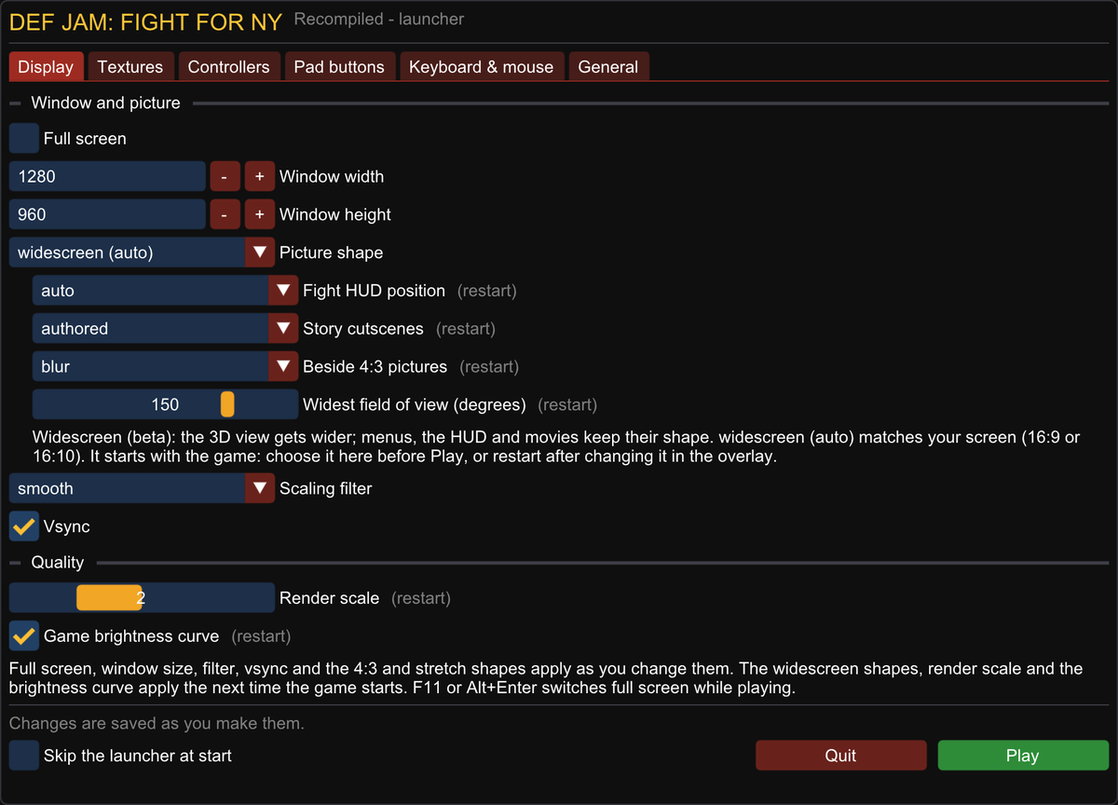
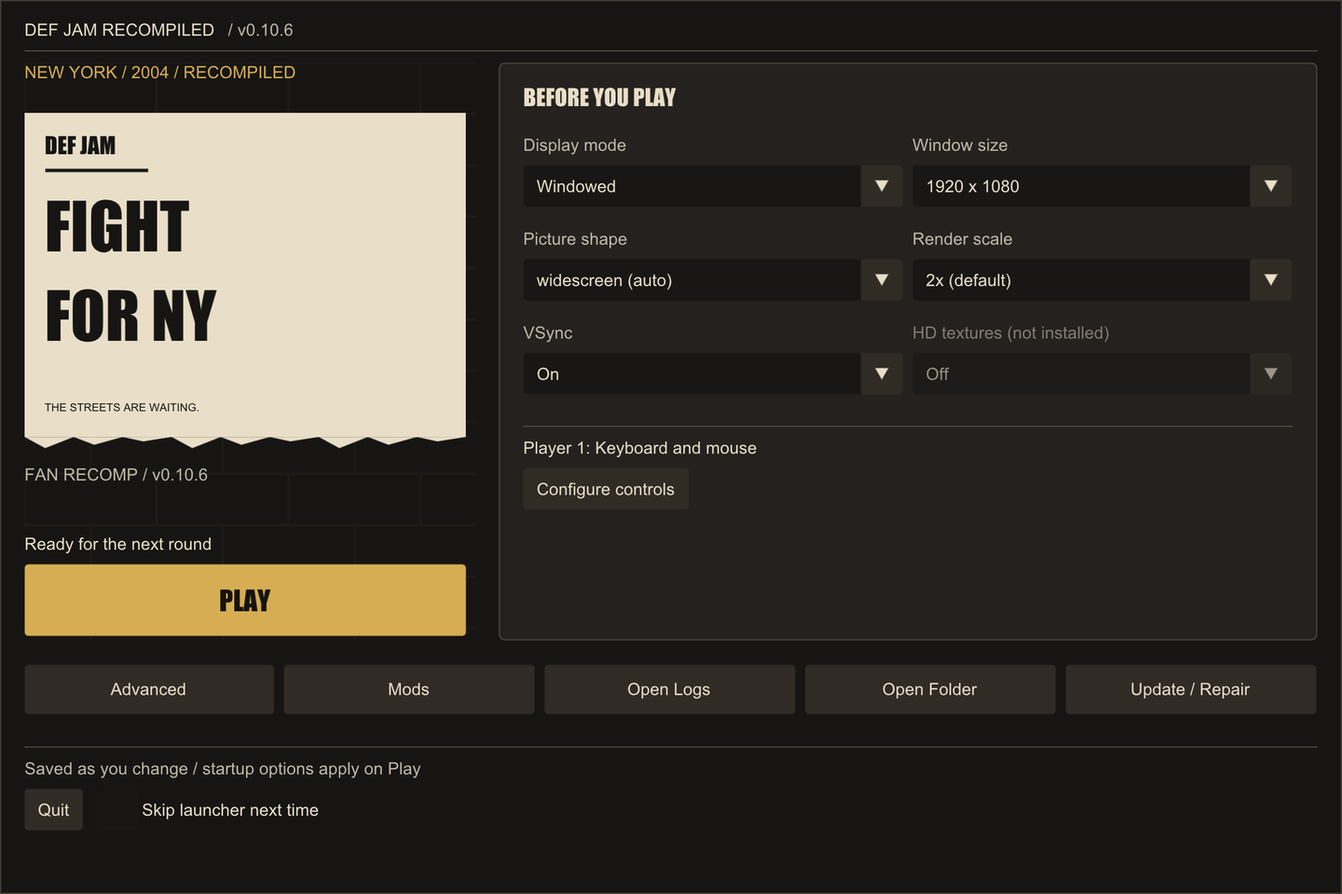
chore: prepare v0.10.6 launcher beta and refresh screenshots

diff --git a/scripts/check-source-tree.py b/scripts/check-source-tree.py
@@ -29,7 +29,9 @@ APPROVED_README_MEDIA = {
[4 lines of base64/hex data omitted]
+    # D144 (2026-10-20): owner requested current Home/Advanced screenshots in README and docs.
[5 lines of base64/hex data omitted]

diff --git a/PROGRESS.md b/PROGRESS.md
@@ -10,7 +10,7 @@
 
 | Area | State | Notes |
 |---|---|---|
-| Launcher redesign (D138-D140, D142-D143) | ✅ owner refinements verified | PR #58, main `af0c03c` integrated; brighter slider tracks, Windowed 1920×1080 / Auto / 2× defaults, bounded render-scale help and usable 250% compact controls. Native fresh/saved settings and Auto boot pass; final quick 5/5 (units 528/32 skip/one slow deselected), picture/overlay 2/2. Saved preferences preserved; physical pad and Windows/Deck GUI acceptance pending. |
+| Launcher redesign (D138-D140, D142-D144) | ⏳ beta release authorized | PR #58, main `af0c03c` integrated; brighter slider tracks, Windowed 1920×1080 / Auto / 2× defaults, bounded render-scale help and usable 250% compact controls. Native fresh/saved settings and Auto boot pass; final quick 5/5 (units 528/32 skip/one slow deselected), picture/overlay 2/2. Saved preferences preserved; owner confirms physical controller works. v0.10.6 prerelease preparation includes refreshed Home/Advanced docs images; Windows/Deck GUI acceptance pending. |
 | Plan reviewed | ✅ | See `docs/01-plan-review.md` |
 | Source dump located | ✅ | Two images of the owner's disc: XISO (3.0 GB) and full-disc ISO (7.8 GB) |
 | XISO extracted | ✅ | `<data>\extracted\` |
@@ -237,6 +237,8 @@
 | D142 | 2026-10-20 | Owner continues launcher work in this chat after positive Mac appearance feedback: brighten only slider tracks; new/reset display defaults are Windowed, 1920×1080, Widescreen (Auto), render scale 2. Explain scale heights and 1080p/1440p choices in the shared help; keep tooltips inside small windows. | Preserve existing saved values. Auto follows the monitor, not the window; integer scales have internal heights 480/960/1440/1920, so 2× is below 1080p and 3× matches 1440p. Pin the harness canvas explicitly to 4:3 for existing goldens/replays. Integrate main `af0c03c` to retain released fixes; D138-D140 from concurrent branches are labelled without renumbering. |
 | D143 | 2026-10-20 | Keep the minimum-size launcher usable at 250% text: shorten only the compact header, reduce compact vertical chrome and match the footer Play font to the control row. Fit explanation text to the viewport when its requested size cannot fit; retain the selected scale for controls. Add semantic `hover:<id>` to the existing SDL test script. | Extra native QA after 7fac946 CI 28/28 found Advanced had no usable body at 640×480/250% (logs/run-20261020-103627.log.err, missing scripted target, normal quit). Resolved by compact layout rather than replacing the user's saved scale. Named hover reveals scrolled controls without changing their values or relying on coordinates. |
 
+| D144 | 2026-10-20 | Owner accepted physical controller and requested beta deployment for Deck. Prepare v0.10.6 as a GitHub prerelease, keep v0.10.5 latest, merge reviewed PR #58 and publish only workflow-verified game-free setup assets. Replace old launcher screenshots throughout README/docs with real current Home/Advanced exports and show Home on the front page; pin those exact UI-only images. | Owner: "Controller works. Deploy this as a beta release and I can install it on Deck"; then requested all older launcher screenshots be replaced and one shown on the front page README. Numeric tag follows release policy; prerelease/latest flags control the beta channel. Existing saved settings stay. No general capture exception or game binary distribution. |
+
 D138–D140 were allocated independently on main and the launcher branch. Their rows retain both records, labelled by branch, so existing decision references keep their meaning; no identifiers were renumbered.
 
 
@@ -327,7 +329,6 @@ defjam-recomp/
 
 > Recent entries only; older entries remain unchanged in the local `docs/worklog/` archive.
 
-- 2026-10-19 15:25 — v0.10.4 published/latest at 15:21 ET (D139): release PR #63 merged `110d50e`, tag `v0.10.4`, Source release run 39309194188 green 30/30. Nine game-free assets downloaded and verified: each `.sha256` and GitHub digest match; provenance names source `110d50e`, toolkit `32aab4d`, production payloads. Released Mac DMG run with a quarantined payload: setup 0.10.4 unpacked 0/4914 files quarantined and the bundled engine ran (exit 2, no dump given). Issue #59 commented with the release and the workaround for older setups.
 - 2026-10-19 15:30 — Owner confirmed the #59 fix with a quarantined test DMG of PR #60 ("This has fixed the issue") and asked for a hotfix. PR #60 merged `1d4e13d` (CI 28/28); #59 closed by it. v0.10.4 prepared on `chore/release-v0.10.4` (D139): CMake 0.10.4, `docs/releases/v0.10.4.md`, known-issues entry now "fixed in v0.10.4" with the `xattr` workaround for older setups. Since v0.10.3 only `setup/macos/Setup/main.swift`, its tests and docs changed (game sources and toolkit `32aab4d` identical), so no game regression was run.
 - 2026-10-19 16:05 — Issue #65 (owner report): with `skip_intro` on, Press Start and menu transition sound effects are silent (v0.10.1 to v0.10.4). Reproduced on the Mac with `RECOMP_APU_PCM` on the `boot` route (skip boot silent at the Audio.Play events; normal boot has the bursts), while the log shows identical `Audio.Play` calls. Temporary `[AUD]` entry logging in the lifted code (not kept, `src/recomp/gen` restored byte for byte) showed a normal boot calls `sub_0003DE20(0)` then, after the movies, `sub_0003DE20(1)`; skip only does the first. D140: `skip_intro.c` calls `sub_0003DE20(1)`. Fixed skip boot has the same bursts as a normal boot; `fight` route 101 present lines, median 120, no crash, save identical; `regress.py --only skipintro` passes 110 s (`logs/regress-20261019-155827.txt`), fails without the fix (`logs/regress-20261019-160026.txt`); native fixture passes. Another `defjam_recomp` from `~/.codex/worktrees/01c5` was running during these runs and one startup crash coincided with it (not reproduced).
 - 2026-10-19 16:20 — Pushed `fix/skip-intro-menu-audio` and opened PR #66 for issue #65 (D140). Prepared v0.10.5 on `chore/release-v0.10.5` (D141): CMake 0.10.5, `docs/releases/v0.10.5.md`; not merged, tagged or published.
@@ -335,51 +336,34 @@ defjam-recomp/
 - 2026-10-20 12:00 — Issue #72 (v0.10.5 installer build on Windows 11, 5080: "has stopped working" right after build, empty Log lines field). Cannot be diagnosed without the log. Reworded the bug report's Log lines field (`.github/ISSUE_TEMPLATE/bug_report.yml`) to say where `logs/run-*.log.err` is for the installer and source builds, and to fall back to a PowerShell launch plus the Event Viewer "Application Error" entry when no log exists. Not committed or pushed; comment on #72 drafted, not posted.
 - 2026-10-20 10:28 — D142 launcher follow-up: main af0c03c integrated (v0.10.5 fixes preserved, concurrent D138-D140 labelled); slider-only contrast, Windowed 1920×1080 / Auto / 2× first-run/reset defaults, render-height help and viewport-bounded tooltip. Native new/saved settings + Auto boot and 200% narrow help verified; all disposable saves restored. Final quick 5/5 logs/regress-20261020-102601.txt (units 528 pass/32 skip/one slow deselected), picture/overlay 2/2 logs/regress-20261020-102746.txt; Swift wrappers type-check; hygiene 430/0. PR #58 remains for playtest, no merge/tag/release.
 - 2026-10-20 10:57 — D143: extra 640×480/250% QA after 7fac946 CI 28/28 could not reach Render Scale (logs/run-20261020-103627.log.err; triage: normal prelaunch quit, body crowded by chrome). Compact header/padding/footer and viewport-fitted help fixed; semantic hover added for stable native checks. 100/200/250% controls/help/Back pass, all disposable save roots restored. Final quick 5/5 logs/regress-20261020-105429.txt (528 units/32 skip/one slow deselected), picture/overlay 2/2 logs/regress-20261020-105615.txt; hygiene 430/0. PR #58; no merge/tag/release.
+- 2026-10-20 11:45 — D144: owner confirms controller works, authorizes Deck beta and README/docs screenshot replacement. Prepared v0.10.6 prerelease (v0.10.5 stays latest), rebuilt version-only source, captured real native Home/Advanced with disposable data/save guard; replaced launcher.png, added launcher-advanced.png and pinned exact UI-only hashes. Front-page README/player guide/gallery refreshed; final units 529 passed/32 skipped/one slow deselected, 62 local docs links valid, source hygiene 432/0. Initial unit run overlapped the final image/hash replacement (one fingerprint failure); rerun after finalization passed. Release/CI/publication pending.
 
 ## 7. Hand-off
 
-Launcher PR #58 remains the active work in this chat: `codex/launcher-redesign`, worktree
-`/Users/vlad/.codex/worktrees/launcher-redesign/DefJamFFNY-recomp`. Main `af0c03c` is integrated,
-retaining v0.10.5 and the setup quarantine/skip-intro audio hotfixes. D138-D140 retain both concurrent
-branch records with labels; owner follow-up is D142; maximum-scale correction is D143. No PR merge, tag or release was requested.
+Vlad confirmed the Mac physical controller works and authorized beta deployment for Deck (D144).
+Prepare **v0.10.6**, a GitHub prerelease, while **v0.10.5 remains stable/latest**.
+PR #58, branch `codex/launcher-redesign`, worktree
+`/Users/vlad/.codex/worktrees/launcher-redesign/DefJamFFNY-recomp`; source ffb428b was CI 28/28.
+Version/docs/media only follow-up: new Home/Advanced captures replace the old launcher image;
+front-page README and player guide show Home. Exact UI-only hashes pinned; no new game artwork.
 
-Vlad accepted the Mac appearance and requested brighter slider tracks, Windowed 1920×1080 with
-Widescreen (Auto) / render scale 2 defaults, and resolution guidance. All are implemented; existing
-saved preferences stay. Auto uses the monitor shape. Scale 2 is 960p internally, scale 3 is 1440p;
-help is shared by Home/Advanced/overlay and fits 640×480 through 250% text; compact header/footer leave controls reachable.
+Preparation checks: version-only build and UI capture/save restoration pass; units 529 passed/32 skipped/one slow deselected, local docs links 62/62, source hygiene 432/0.
+Next: commit/push, mark PR #58 ready, merge after green CI,
+then tag main v0.10.6. Tagged release workflow builds/verifies three game-free setups + checksums +
+provenance (nine assets). Verify the draft, then publish as prerelease with latest=false.
+Do not publish a built game. Verify asset digests and keep a local receipt under
+`logs/launcher-review/beta-20261020/`. Update this handoff when publication completes.
 
-Local entry remains `build/Def Jam Launcher Playtest.app` (forces Home, normal owner data); it uses
-the current rebuilt candidate. Keep the worktree/app; no built game is published. Read
-`docs/agent/launcher-handoff.md`, `docs/research/launcher-ui-implementation-2026-10-19.md` and
-`docs/launcher-and-overlay.md`. Prior setting/pack/path/Setup invariants still apply.
+Mac acceptance: appearance/controller owner-approved; brighter slider tracks, Windowed 1920×1080 /
+Widescreen Auto / 2× defaults and render-scale help implemented. Saved settings preserved.
+Native 100/200/250% controls/help pass; latest quick 5/5 (`logs/regress-20261020-105429.txt`, units
+528 passed/32 skipped/one slow deselected), picture/overlay 2/2 (`logs/regress-20261020-105615.txt`).
+Original full run remains 16/18 (`logs/regress-20261019-123630.txt`): host-stall audio underrun
+(combat retry 27/27), historical replay target 0x001E3C14 (D108) despite exact records.
+No broad game rerun needed for version/docs/media. All captures/tests use disposable runtime-data.
 
-Final follow-up checks: quick 5/5 (`logs/regress-20261020-105429.txt`), units 528 pass/32 skip/one slow deselected,
-picture/overlay 2/2 (`logs/regress-20261020-105615.txt`), both Swift wrappers type-check, hygiene 430/0.
-Native slider captures, fresh settings creation, saved overrides, Auto startup and final Home/Advanced/
-200% narrow help pass; all isolated save roots restored. Receipts/captures stay in
-`logs/launcher-review/{slider,display}-20261020/`. No owner settings/save changes.
-The extra 250% check initially missed Render Scale because the body had no room
-(logs/run-20261020-103627.log.err, normal quit). Fixed compact chrome/footer and fitted help;
-native 100/200/250% checks pass, with named hover targets and saved scale retained.
-The initial full run remains 16/18 (`logs/regress-20261019-123630.txt`): one audio underrun beside
-a host stall, plus historical stream target 0x001E3C14 (D108) despite exact replay records.
-Combat retry was 27/27. No thresholds/diagnostics/goldens were suppressed or updated.
-
-Next: check the current PR head's CI, then owner feedback on physical-pad navigation/remapping,
-actual HD packs/priority, folder/log actions and real Setup selection/prefill. Native Windows/Deck
-GUI acceptance remains pending. The original Mac appearance feedback does not establish those checks.
-Do not rerun broad game suites unless changes or a reported fault justify them. Current release state:
-
-v0.10.5 is the latest release (D141): https://github.com/vyanhursky/DefJamFFNY-recomp/releases/tag/v0.10.5. Tag on release PR #68
-merge `cb10747` (toolkit `32aab4d`); Source release run 39344036207 green 30/30; nine assets present, the three installers'
-SHA-256 files match GitHub's asset digests. It fixes #65 (PR #66): with *Skip startup movies and legal screen* on, Press
-Start and the menu transition sounds were silent in v0.10.1 to v0.10.4; `skip_intro.c` now runs `sub_0003DE20(1)`, the full
-audio init the game makes after the movies. Verified on the Mac only (audio capture, `boot`/`fight` routes, `--only skipintro`
-with a negative control, native fixture). The owner merged the PRs; no ear test of the fix is recorded, and Windows and Linux
-were not listened to.
-
-Open: Windows play-test of the picture options and the skip-on menu sounds (add to the §5 Windows to-do for the week of
-2026-10-25); subtitles (#44, backlog). Earlier items stay: Deck follow-ups (render scale 1 on sc00/sc11/sc07b/sc06, Game Mode
-60 Hz, `perf record` during sc00, F5 fence-hold wait), F2 scene-load freezes, the Windows to-do in §5. No game is running.
-
-Decisions are read by number or keyword: `decision D<n>`, `decisions --grep TEXT`.
+Deck/Windows GUI acceptance and actual pack/Setup utility acceptance remain. On Deck use beta Linux
+setup, existing install/data folders, Clean Update + Bundled. Latest excludes prereleases. Keep local
+`build/Def Jam Launcher Playtest.app` and worktree for owner. Short code map/invariants are in
+`docs/agent/launcher-handoff.md`; evidence in `docs/research/launcher-ui-implementation-2026-10-19.md`.
+Preserve existing Windows/F2/scene-load/audio backlog in §5 and `docs/known-issues.md`.

diff --git a/docs/media/README.md b/docs/media/README.md
@@ -2,7 +2,8 @@
 
 [Back to the project](../../README.md) · [Capture guide and remaining shots](capture-plan.md)
 
-These are real captures of the native Mac port, recorded on October 13, 2026
+These are real captures of the native Mac port. The launcher Home and Advanced
+screens were captured on October 20, 2026; gameplay and the historical overlay were recorded on October 13, 2026
 on an Apple M1 Pro running macOS 26.5.2, using Vulkan/MoltenVK. Gameplay uses
 render scale 2, the game brightness curve and locally generated faithful HD
 packs where labelled. Widescreen beta shipped in
@@ -46,23 +47,30 @@ Both recordings follow the same seeded inputs but are not frame synchronized.
 
 ## Launcher and F1 overlay
 
-![Mac launcher Display page with widescreen auto and render scale 2 selected](launcher.png)
+![New launcher Home with Widescreen Auto, 1920×1080 and render scale 2 selected](launcher.png)
 
-The v0.9.0 Mac launcher exposes picture shape, HUD placement, cutscene framing
-and rendering options before Play. The selected blur option only supplies
-blurred sides on Windows in v0.9.0; macOS and Linux use black sides.
+The v0.10.6 beta Home screen keeps the common display choices beside Play, with
+Advanced, Mods, Open Logs, Open Folder and Update / Repair directly below.
+The screenshot uses fresh defaults; upgrading preserves your saved choices.
+
+![Advanced Display settings with visible slider tracks](launcher-advanced.png)
+
+Advanced groups the shared settings into Display, Controls, Mods, Interface,
+Diagnostics and Maintenance. Focus or hover an option for its explanation.
+These are real native macOS UI captures, not Steam Deck or Windows captures.
 
 ![F1 Display settings overlay over a live Mac fight](overlay.png)
 
-The F1 overlay opens over live gameplay and does not pause it. Widescreen and
-other settings marked restart take effect on the next launch.
+Historical v0.9.0 F1 overlay capture, retained as a gameplay-overlay example. The
+current overlay shares the new Advanced categories and theme shown above. It
+does not pause gameplay; options marked **on Play** apply on the next launch.
 
 ## Setup example
 
 ![Windows setup wizard with neutral example folders](setup-wizard.png)
 
 Historical v0.6.0 Windows setup screenshot, approved October 9, 2026. It
-illustrates the installation workflow, not the current v0.9.0 wizard or its
+illustrates the installation workflow, not the current wizard or its
 new update controls. A fresh setup capture is still needed; see the
 [setup guide](../setup-installer.md) for current behavior.
 
@@ -77,13 +85,21 @@ simulation streams, native masters and diagnostic contact sheets stay local.
 
 Gameplay stills, GIF and videos: PR #12 source `a7dc1b7`, CI merge `d319a802`,
 toolkit `872fbc3`. These precede the final Mac correction and are candidate
-captures, not recordings of the tagged installer. Launcher and overlay:
+captures, not recordings of the tagged installer. Historical overlay:
 corrected source runtime inputs certified to match v0.9.0 commit
 `c4bcda69b3dc839a3705bfb443fc774d7828f33a` (compiled before the commit).
-The launcher/overlay executable SHA-256 is
+The historical overlay executable SHA-256 is
[1 lines of base64/hex data omitted]
 Mac helper SHA-256 is
[1 lines of base64/hex data omitted]
+
+Current Home/Advanced exports: source `ffb428b` with only the CMake version changed
+to 0.10.6 before capture; toolkit `32aab4d`. Executable SHA-256:
[1 lines of base64/hex data omitted]
+Captured through SDL/Metal at 2400×1600 pixels and downsampled to 1440×960;
+no visual mockup or game artwork was added. The owner requested this replacement
+on October 20 (D144). Disposable data and the complete-save-root guard were used;
+restoration passed. Local receipt: `logs/launcher-review/beta-20261020/receipt.json`.
 
 The local master set is `logs/widescreen-macos/media/` in the capture checkout,
 with identities in `exports.json`. Seed `20261006`; the five texture/aspect
@@ -103,7 +119,8 @@ and `ac3583188a87e46dc7f183969f2b51dd0300cf3d6bd05ca3ecf40513c61f4d2f`.
[9 lines of base64/hex data omitted]

diff --git a/docs/releases/v0.10.6.md b/docs/releases/v0.10.6.md
@@ -1,0 +1,59 @@
+# v0.10.6 beta — Brick & paper launcher
+
+A beta for testing the redesigned launcher on Steam Deck, Windows and macOS.
+This is a GitHub prerelease; **v0.10.5 remains the stable/latest release**.
+
+## Changes
+
+- **Home plus Advanced settings.** Common display options and a large Play button on
+  Home; Display, Controls, Mods, Interface, Diagnostics and Maintenance in Advanced.
+  Charcoal, ivory, oxblood and gold, with quiet procedural brickwork and torn paper.
+- **Direct utilities.** Advanced, Mods, Open Logs, Open Folder and Update / Repair.
+  Mods lists local texture packs and their priority. Setup opens its existing wizard
+  with installed paths prefilled; it does not begin an update automatically.
+- **Clearer controls.** Brighter slider tracks, contextual explanations and a layout
+  checked at 100–250% text, including small windows. Render-scale guidance explains
+  internal resolution: 1× = 480p, 2× = 960p, 3× = 1440p, 4× = 1920p.
+- **Fresh/reset defaults:** Windowed, 1920×1080, Widescreen (Auto), render scale 2,
+  VSync on. Existing saved choices survive the update. Auto follows the monitor's
+  shape; window resolution and internal render resolution are separate.
+- Includes the v0.10.4 macOS setup quarantine fix and v0.10.5 skipped-startup menu-audio fix.
+
+[Home and Advanced screenshots](https://github.com/vyanhursky/DefJamFFNY-recomp/blob/v0.10.6/docs/media/README.md#launcher-and-f1-overlay) ·
+[Launcher guide](https://github.com/vyanhursky/DefJamFFNY-recomp/blob/v0.10.6/docs/launcher-and-overlay.md)
+
+## Install the beta on Steam Deck
+
+1. In Desktop Mode, download and extract **DefJamSetup-0.10.6-linux-x64.tar.gz**
+   from this release, then run **DefJamSetup.sh** (choose Execute in Dolphin).
+2. Select the existing install and data folders, choose **Clean Update**, and leave the
+   release selector on **Bundled** so setup installs this beta. Keep the Deck awake
+   while setup rebuilds from your own supported dump. Player data is preserved.
+3. Launch the existing game shortcut. If the launcher was previously skipped,
+   turn that preference off or start the game with `--launcher` to inspect it.
+4. Check Home/Advanced navigation, Deck controls, scrolling/text size, Play, texture
+   packs and the utility buttons. In Gaming Mode, check that the game fills the
+   display as intended. Fullscreen with Widescreen (Auto), VSync on and 2× is a
+   useful Deck pairing; keep 1× available for heavier scenes.
+
+The normal **Latest** release selector excludes prereleases. Use this beta's
+setup and its **Bundled** selection rather than updating from the stable setup.
+Windows and macOS users can use their matching setup from this release in the same way.
+
+## Validation and remaining checks
+
+- Native macOS build, real Home/Advanced captures and isolated-save restoration pass.
+  The owner accepted the appearance and confirmed a physical controller works.
+- Latest game-code quick regression: **5/5** (528 unit tests passed, 32 skipped,
+  one slow deselected); picture/overlay **2/2**. Native UI checks cover fresh/saved
+  preferences, Auto startup and 100/200/250% controls and help. Source CI passed
+  **28/28**, including Windows game-source compilation and all three setup builds.
+- The earlier full run was **16/18**: one audio underrun beside a host stall
+  (combat retry 27/27), and the known replay target issue D108 despite exact records.
+  No golden images or thresholds were changed to pass these checks.
+- **Deck and Windows launcher GUI acceptance are pending.** This beta supplies the
+  native Linux setup for the owner's Deck test; CI compilation does not establish
+  device appearance or controls. Known game limits remain in [known issues](https://github.com/vyanhursky/DefJamFFNY-recomp/blob/v0.10.6/docs/known-issues.md).
+
+Only game-free setup tools, checksums and provenance are attached. The game is
+compiled locally from your own dump; no built game executable is distributed.

diff --git a/AGENTS.md b/AGENTS.md
@@ -78,7 +78,7 @@ Game data lives outside the repo at `<data>` (`$env:DEFJAM_DATA`): `xiso/`, `ext
 - Never mention the site the dump came from, anywhere. Refer to "the user's own dump".
 - Never distribute built game executables (they embed lifted EA code). Ship tools, patches, docs.
 - Release setup exception: only the standalone game-free `DefJamSetup-<version>-windows-x64.exe`, `DefJamSetup-<version>-macos-arm64.dmg` (Vlad approved the macOS one on 2026-10-09, unsigned) and `DefJamSetup-<version>-linux-x64.tar.gz` (approved 2026-10-10, D96), each with its SHA-256 and provenance, may be attached by the tagged release workflow after `check-setup-assets.py` passes. Setup compiles the player's dump locally. No binary is tracked in source; no game executable, generated guest code or game data enters the setup payload. The macOS payload carries only pinned third-party tools and libraries (Python, CMake, Ninja, SDL3, shaderc, MoltenVK) next to the reviewed source. The Linux payload carries only pinned Python (python-build-standalone, with Tk) and four wheels (pyxbe and capstone; Pillow and NumPy for the HD upscale since v0.7.2, D99) next to the reviewed source; its build container is fetched on the player's computer, never shipped.
-- D58 (2026-10-04): Vlad explicitly approved the two README visuals in `docs/media/`. Only their exact paths and SHA-256 fingerprints in `scripts/check-source-tree.py` are permitted; no general capture/asset exception. The project license does not cover game artwork. On 2026-10-09 he asked for two screenshots of the port's own interface (the setup wizard and the launcher, no game artwork); they are fingerprinted the same way.
+- D58 (2026-10-04): Vlad explicitly approved the two README visuals in `docs/media/`. Only their exact paths and SHA-256 fingerprints in `scripts/check-source-tree.py` are permitted; no general capture/asset exception. The project license does not cover game artwork. On 2026-10-09 he asked for two screenshots of the port's own interface (the setup wizard and the launcher, no game artwork); they are fingerprinted the same way. On 2026-10-20 he requested replacing the older launcher screenshots throughout the README/docs and showing the new launcher on the front page; the exact Home and Advanced exports (`docs/media/launcher.png`, `docs/media/launcher-advanced.png`) are pinned under D144. This permits these UI-only replacements, not arbitrary captures.
 - D98 (2026-10-10): Vlad approved committing the application icons and the Steam artwork rendered from the game's own textures, under `branding/` only (the shield, the title wordmark, the title-screen scene and what `scripts/make-branding.py` renders from them). `scripts/check-source-tree.py` pins the set by the SHA-256 of `branding/SHA256SUMS`, which lists every file; changing any of them, or adding one, needs his approval of a new pin. It is not a general asset exception, and the licence still does not cover the artwork.
 - Hashes are fine, bytes are not. `config/dump-manifest.json` is the pattern.
 - Branch cleanup after a merge: GitHub deletes the remote head branch itself (`delete_branch_on_merge` is on). Run `git fetch --prune`, then delete the local branch once its PR is merged, including squash merges, which `git branch --merged` misses, so check the PR state with `gh pr view`. Never delete a branch checked out in a worktree or one that still has unmerged commits.

diff --git a/docs/agent/launcher-handoff.md b/docs/agent/launcher-handoff.md
@@ -5,10 +5,12 @@ repository policy and current project state remain in those files.
 
 ## Candidate and entry point
 
-[Draft PR #58](https://github.com/vyanhursky/DefJamFFNY-recomp/pull/58), branch
+[PR #58](https://github.com/vyanhursky/DefJamFFNY-recomp/pull/58), branch
 `codex/launcher-redesign`; initial UI source `205582d`, now integrated with main `af0c03c`.
 Build/test/push are owner-authorized. Vlad is continuing in the original chat; his Mac appearance
-feedback is positive. No PR merge, tag or release was requested.
+feedback is positive, and he confirmed the controller works. He authorized a beta release
+for Deck installation on 2026-10-20 (D144); v0.10.6 is being prepared as a GitHub prerelease,
+with v0.10.5 remaining stable/latest. He also requested new README/docs launcher screenshots.
 
 Local worktree: `/Users/vlad/.codex/worktrees/launcher-redesign/DefJamFFNY-recomp`.
 `build/Def Jam Launcher Playtest.app` forces Home and uses the owner's normal data by default.
@@ -55,12 +57,15 @@ Receipts/captures are local in `logs/launcher-review/`; the report names regress
 are verified at 100/200/250%, including 640×480. Latest quick 5/5 (`logs/regress-20261020-105429.txt`),
 picture/overlay 2/2 (`logs/regress-20261020-105615.txt`); quick units 528 pass/32 skip/one slow deselected.
 The report records the initial 250% failure and its fix (D143).
+Beta version/media preparation: native 0.10.6 rebuild and Home/Advanced captures pass; save root
+restored; units 529 passed/32 skipped/one slow deselected, 62 local docs links valid, hygiene 432/0.
 
-1. Collect Vlad's feedback on Home/Advanced, physical-pad navigation/remapping, text scaling, actual
+1. Mac appearance and physical controller are owner-accepted. Collect Deck feedback, text scaling, actual
    HD packs/priority, folder/log actions and real Setup selection/prefill. Windows/Deck GUI acceptance
    remains pending; CI compilation does not cover it.
 2. After changes, use the focused model/action fixtures and real UI targets
    (`regress.py --only launcher,overlay,unlockopt,picture`), then the applicable AGENTS checks.
    Run games serially with `DEFJAM_DATA` pointing to the disposable
    `logs/launcher-review/runtime-data`; leave the owner's save alone.
-3. Keep PR #58 and PROGRESS current. Do not widen this into renderer/runtime or release work.
+3. Keep PR #58 and PROGRESS current. Publish only the reviewed game-free setup assets through the
+   tagged release workflow; confirm prerelease status and preserve the stable latest release.

diff --git a/docs/media/capture-plan.md b/docs/media/capture-plan.md
@@ -1,7 +1,8 @@
 # Current-release media capture plan
 
 The [gallery](README.md) now contains reviewed Mac gameplay, original/HD and
-4:3/16:9 comparisons, plus the v0.9.0 launcher and F1 overlay. The README uses
+4:3/16:9 comparisons, the v0.10.6 beta Home/Advanced launcher (October 20), and a
+labelled historical v0.9.0 F1 overlay. The README shows the new Home screen and uses
 one owner-selected face-off 4:3/16:9 comparison and one compact 20-fps GIF
 (about 4.53 MB together); videos are
 linked downloads. Gameplay came from the PR #12 candidate and is labelled as
@@ -28,10 +29,11 @@ such. Widescreen beta is now released on all three platforms in v0.9.0.
 
 1. Check out the README documentation PR's `docs/readme-intro-refresh` branch
    with GitHub CLI (`gh pr checkout` followed by its PR number) or Git.
-2. Build/install the current release from your own supported dump using the
+2. Build/install the selected release from your own supported dump using the
    [setup guide](../setup-installer.md) or [source build guide](../build-and-play.md).
    Initialize the pinned toolkit submodule for a source build. Record the exact
-   tag and commit used; the current release is v0.9.0; the original plan was reviewed against v0.7.3.
+   tag and commit used; launcher captures target v0.10.6 beta, while the gameplay
+   capture plan was originally reviewed against v0.7.3.
 3. Use disposable saves for scripted captures. Keep raw PNGs and recordings
    local, under the ignored `logs/` folder or outside the repository.
 4. Capture the priority-one items below, select exports and review the actual

diff --git a/docs/launcher-and-overlay.md b/docs/launcher-and-overlay.md
@@ -5,6 +5,8 @@ mouse, keyboard or gamepad on Windows, macOS and Linux, including the Steam Deck
 
 ## Home and Advanced
 
+![Launcher Home with quick settings and utility buttons](media/launcher.png)
+
 The launcher opens before the game loads. Home has a quiet brickwork/paper design, a large **Play**
 button and the common choices: display mode, window size, picture shape, render scale, VSync and local
 HD textures. The live controller summary has **Configure controls**. **Quit** or closing the window
@@ -24,6 +26,8 @@ remains in Interface. Display DPI and the existing text/control size setting sti
 - On macOS the Metal launcher closes before the game window opens. Its red close button/Cmd+Q quits.
 
 ## The settings pages
+
+![Advanced Display settings with brighter slider tracks and contextual help](media/launcher-advanced.png)
 
 | Page | Contents |
 |---|---|

diff --git a/README.md b/README.md
@@ -40,6 +40,15 @@ performance measurement. [Download the longer 60-fps MP4](docs/media/hd-16x9-gam
 
 **[Compare 4:3 and widescreen, original and HD textures, and see the launcher and overlay](docs/media/README.md)**
 
+## Launcher
+
+![New launcher Home screen with quick display settings and Advanced, Mods, logs, folder and Update / Repair buttons](docs/media/launcher.png)
+
+The v0.10.6 beta brings a focused Home screen, with detailed options in
+[Advanced settings](docs/launcher-and-overlay.md). The brickwork and torn-paper
+style uses the game's charcoal, ivory, red and gold palette.
+[Try the beta setup](https://github.com/vyanhursky/DefJamFFNY-recomp/releases/tag/v0.10.6).
+
 ## Features
 
 - **Native across three platforms.** Windows x64 uses Direct3D 11; Apple Silicon
